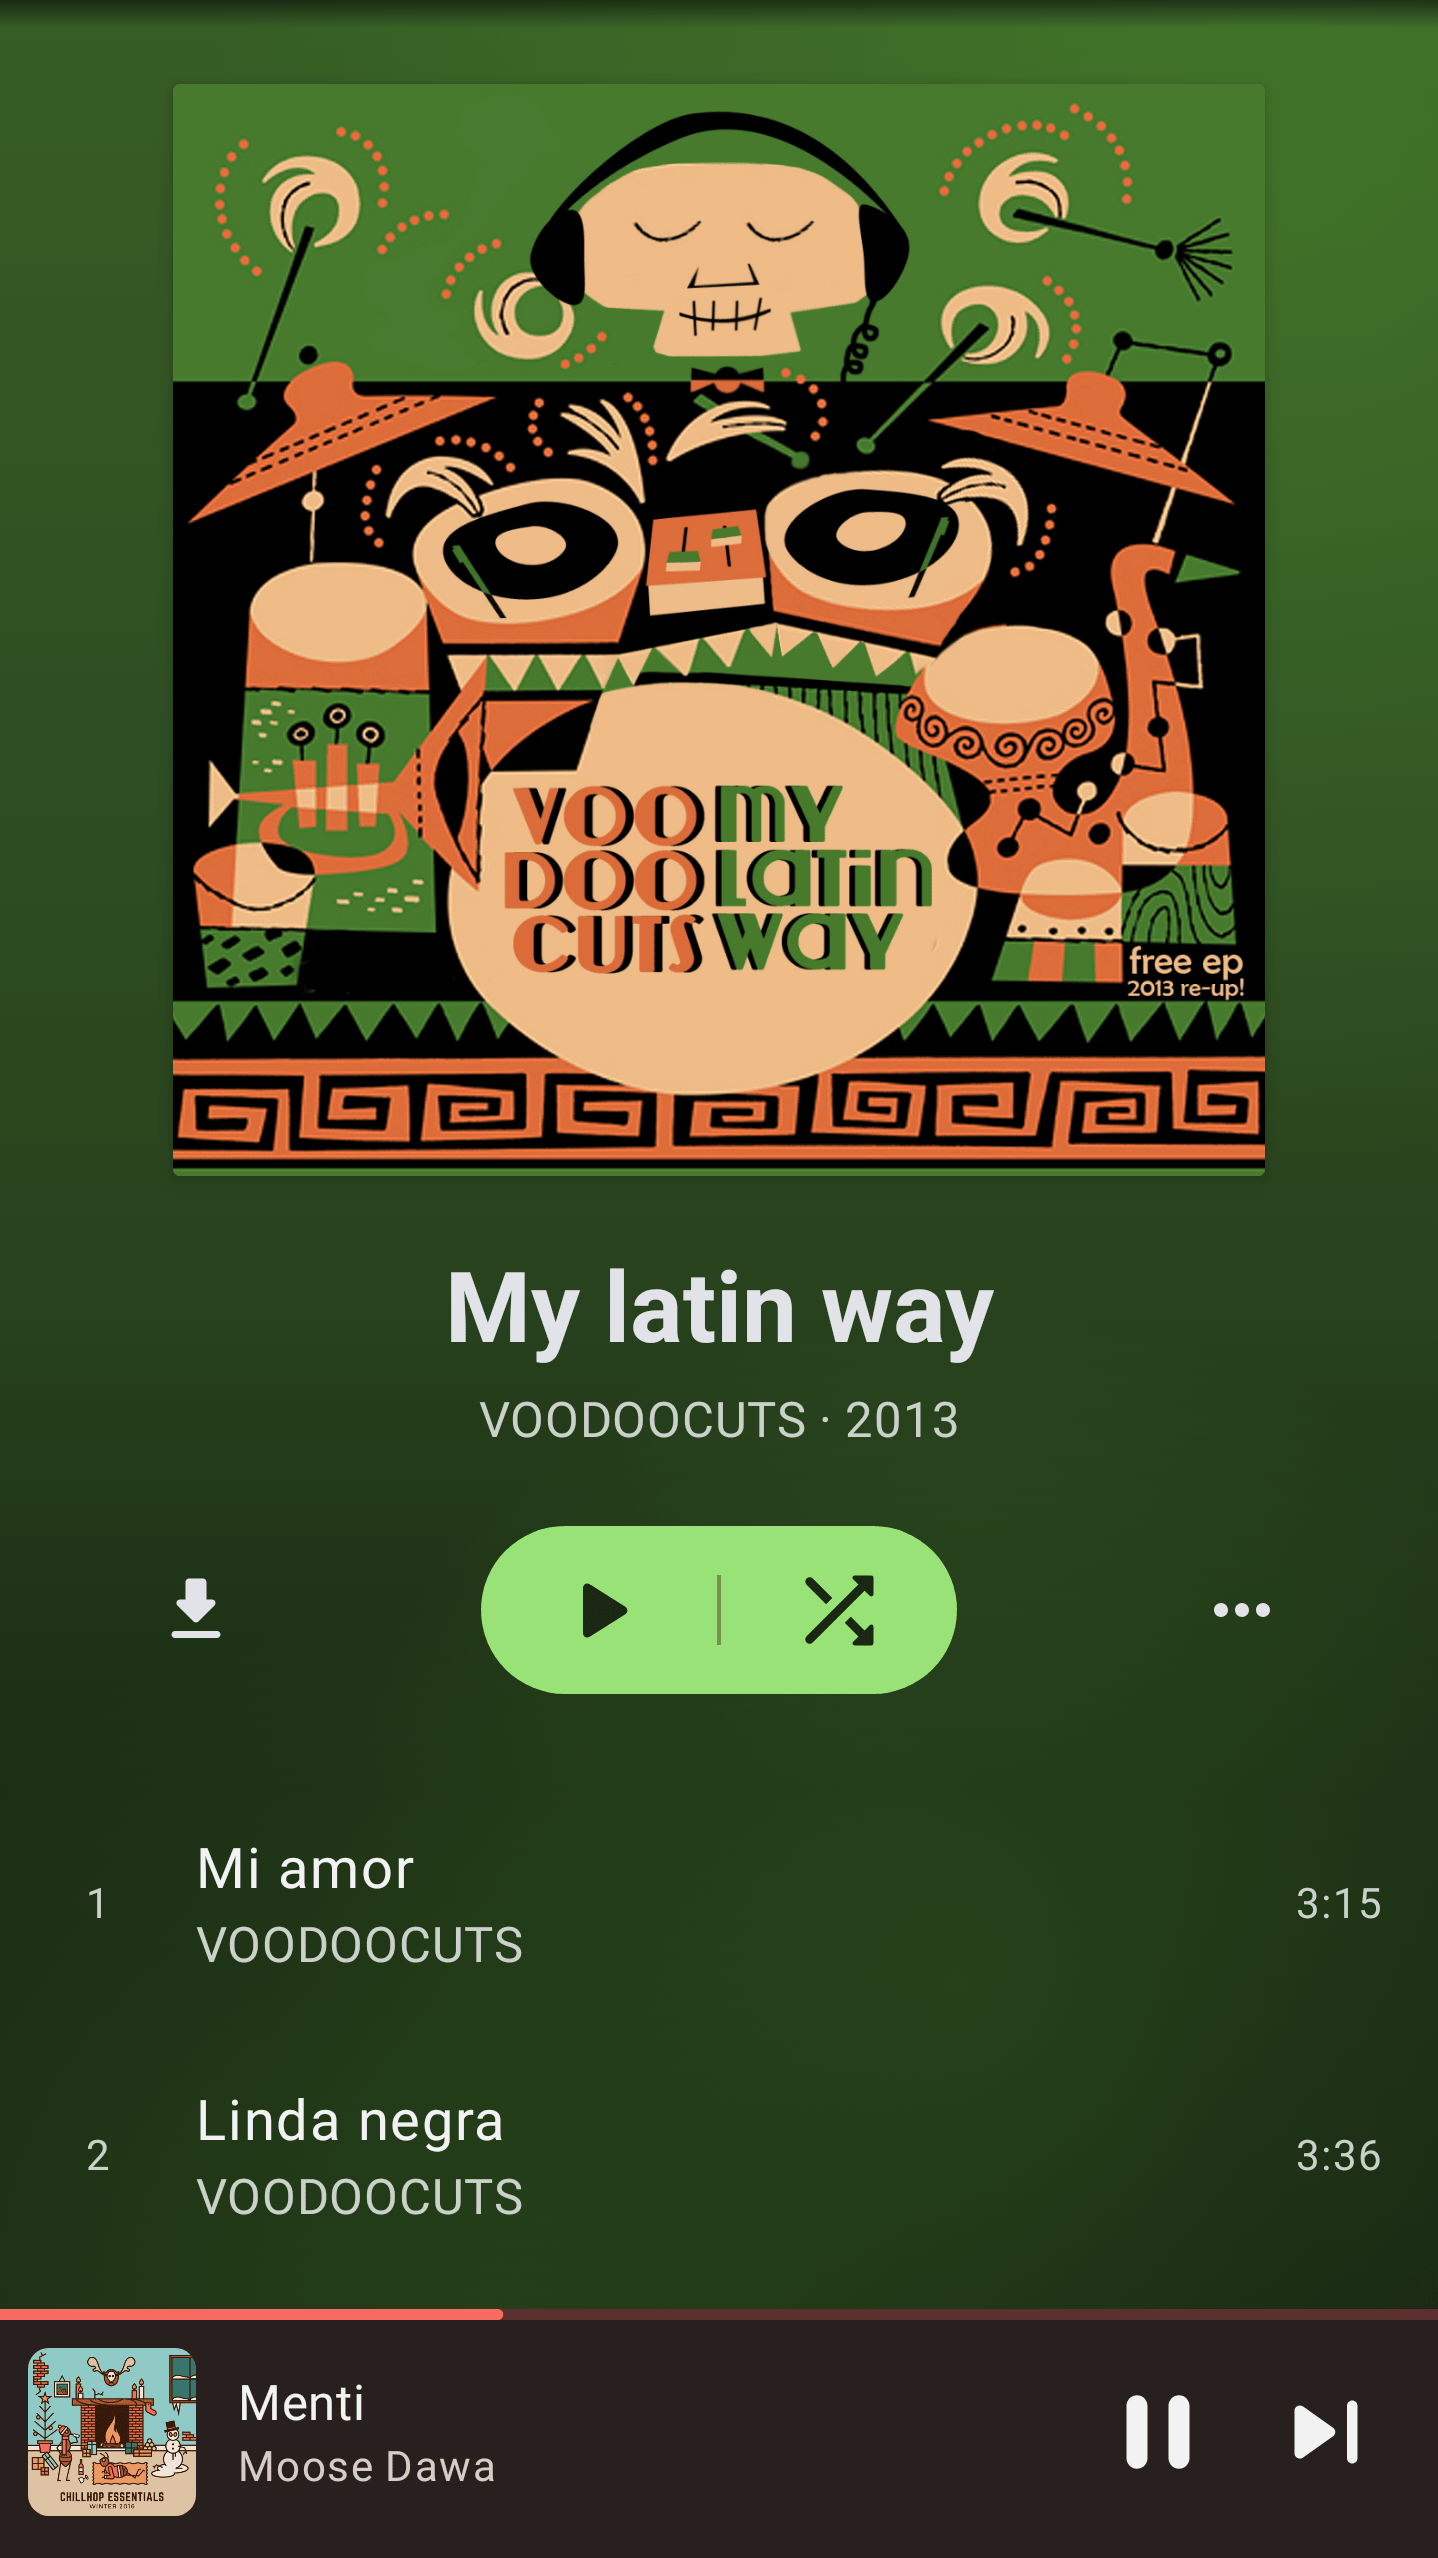
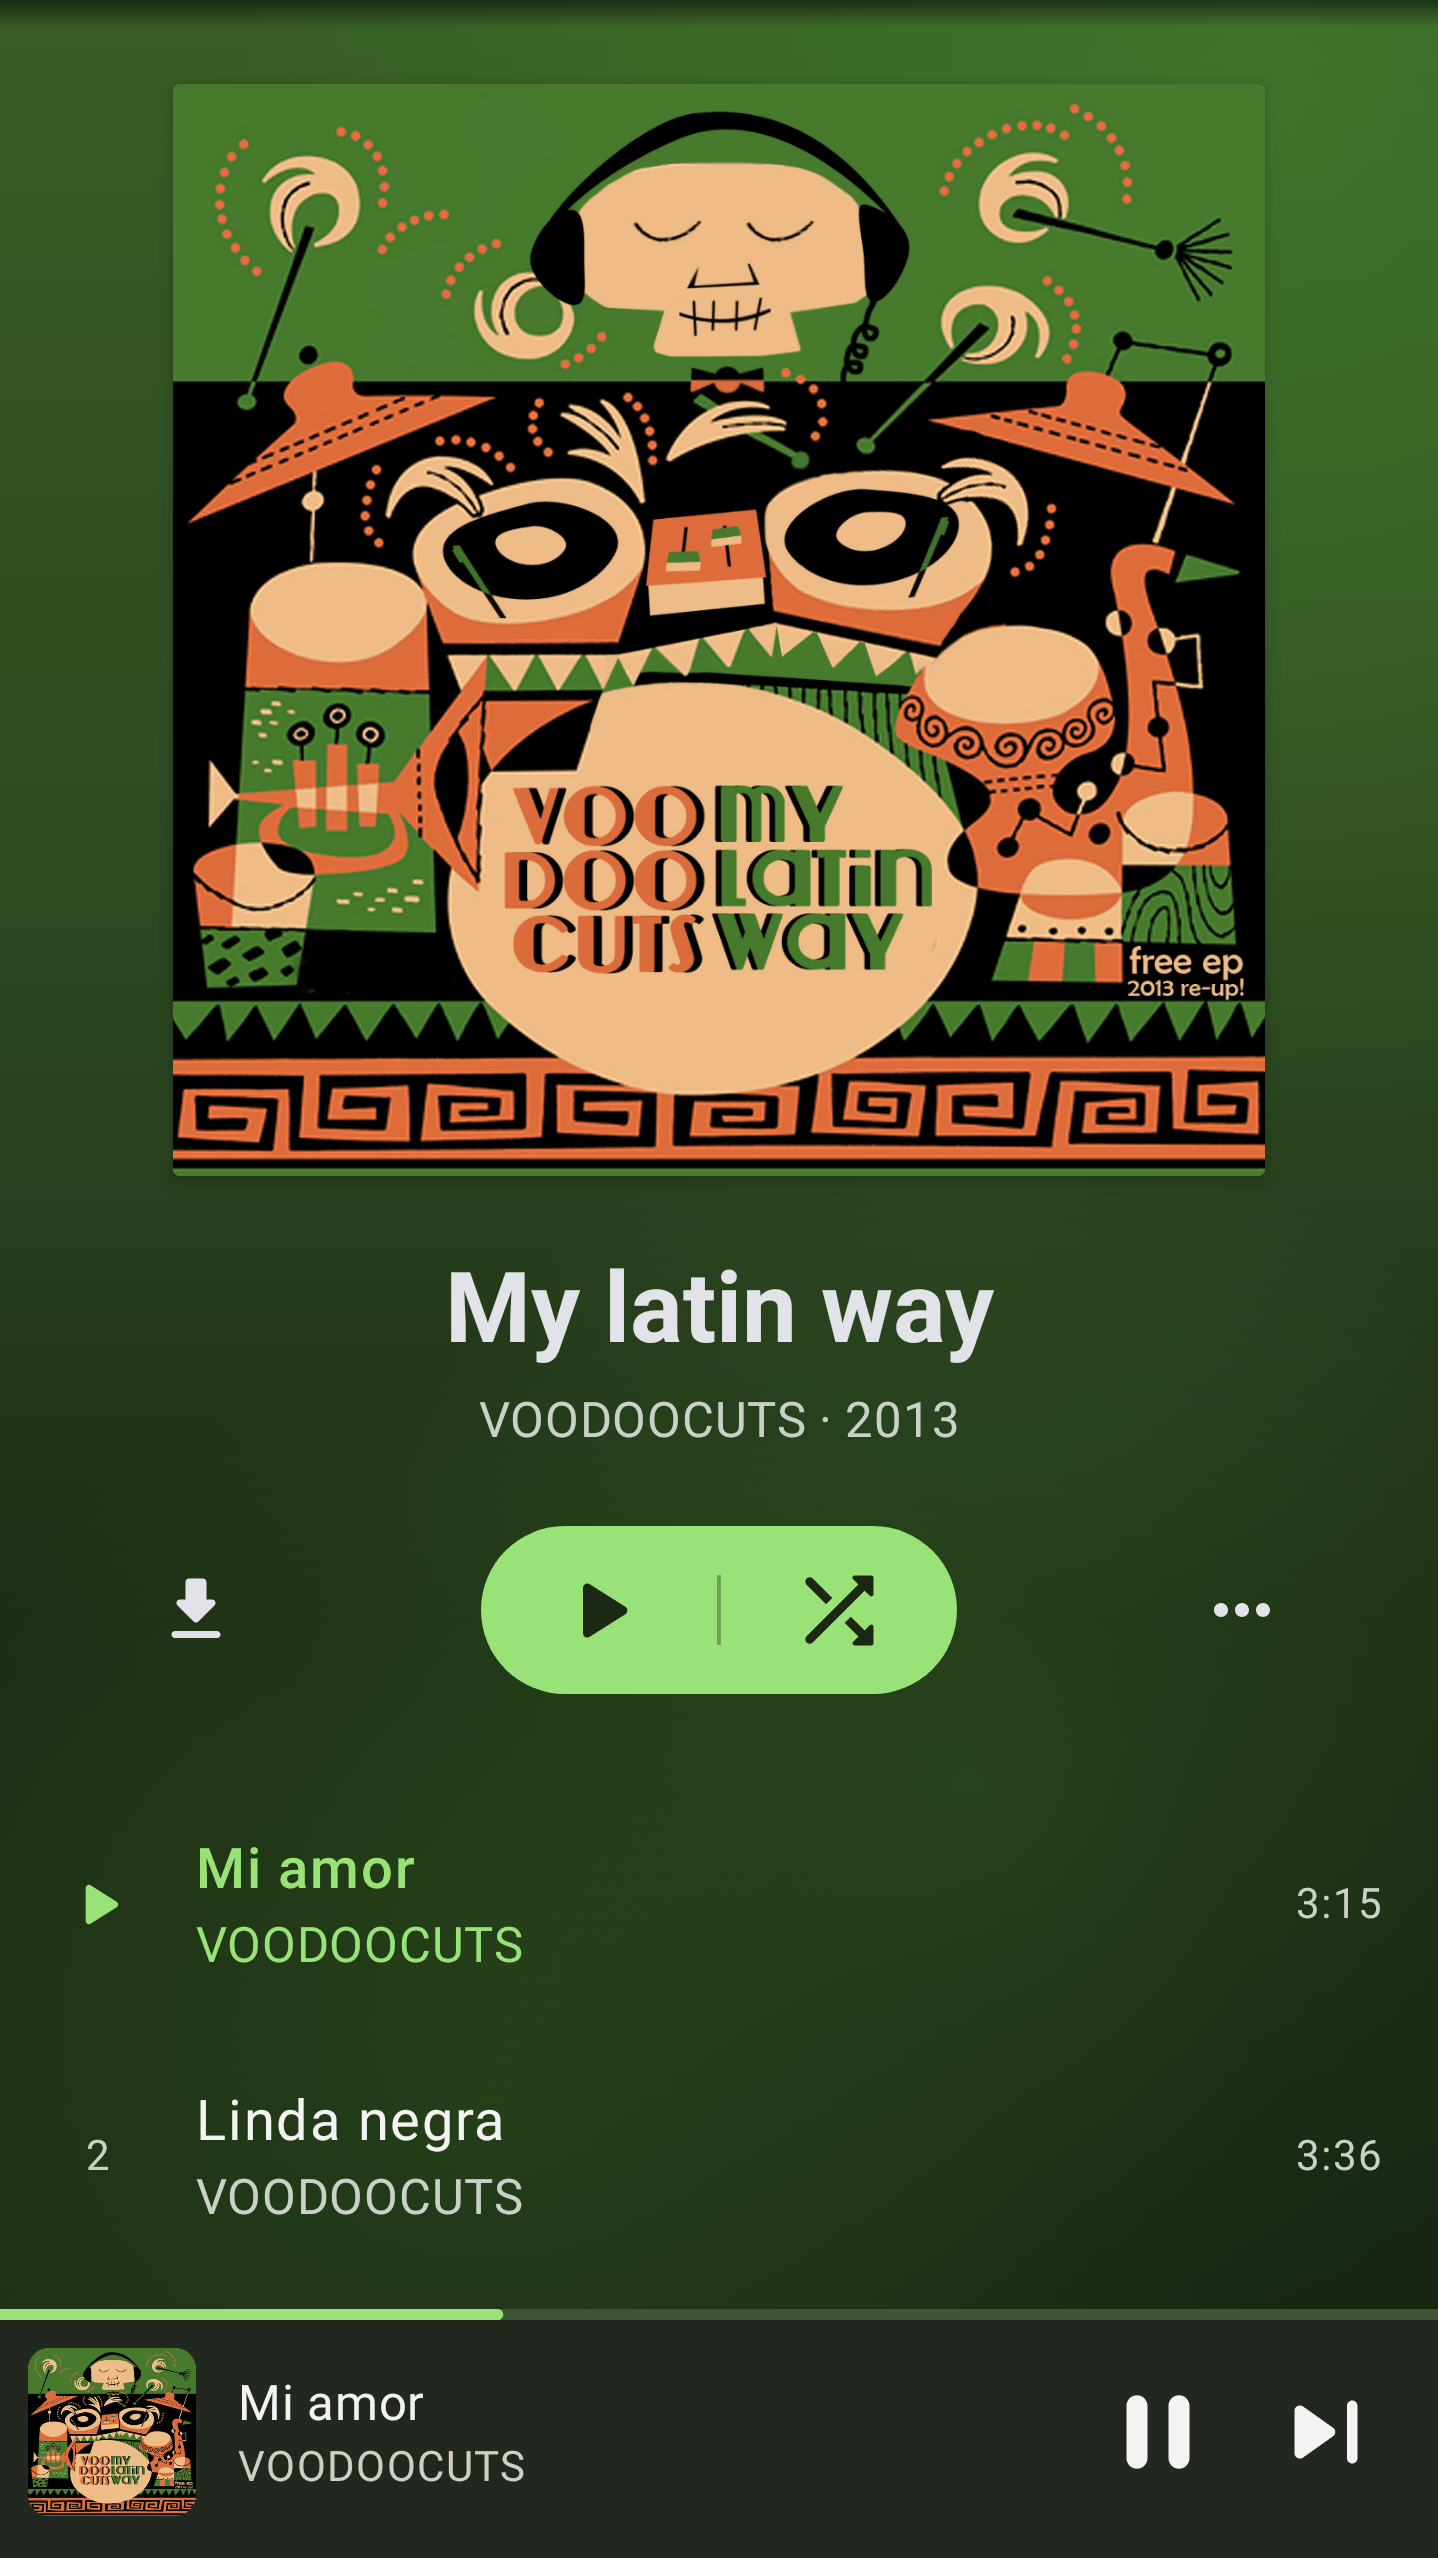
metadata: stack the miniplayer above the library tabs
Render the miniplayer in a column below the screen instead of overlaying it, so
the library tab bar and the list-options FAB are no longer covered. Use Ugress
for the artist screen, drop Various Artists from the home artist rows, and have
the album screen play its first track so the row indicator and the miniplayer
colours match the album.

Changed region(s): [[0.0, 0.8956, 1.0, 0.9883], [0.1224, 0.7103, 0.3672, 0.7721], [0.0612, 0.7412, 0.0918, 0.7721]]

diff --git a/app/src/test/kotlin/com/subtracks/ui/DemoScreenshotTest.kt b/app/src/test/kotlin/com/subtracks/ui/DemoScreenshotTest.kt
@@ -5,7 +5,7 @@ import android.graphics.Bitmap
 import android.graphics.BitmapFactory
 import android.graphics.Color
 import androidx.activity.ComponentActivity
-import androidx.compose.foundation.layout.Box
+import androidx.compose.foundation.layout.Column
 import androidx.compose.foundation.layout.fillMaxSize
 import androidx.compose.material3.Surface
 import androidx.compose.runtime.Composable
@@ -13,7 +13,6 @@ import androidx.compose.runtime.getValue
 import androidx.compose.runtime.mutableStateOf
 import androidx.compose.runtime.remember
 import androidx.compose.runtime.setValue
-import androidx.compose.ui.Alignment
 import androidx.compose.ui.Modifier
 import androidx.compose.ui.test.junit4.v2.createAndroidComposeRule
 import androidx.compose.ui.test.onRoot
@@ -141,14 +140,19 @@ class DemoScreenshotTest {
                         }
 
                         Screen.Albums -> {
-                            Box(Modifier.fillMaxSize()) {
-                                AlbumsScreen(demo.albums, demo.coverArt, demo.artwork(demo.albums.first().coverArt))
-                                demo.MiniPlayerOverlay(Modifier.align(Alignment.BottomCenter))
+                            Column(Modifier.fillMaxSize()) {
+                                AlbumsScreen(
+                                    demo.albums,
+                                    demo.coverArt,
+                                    demo.artwork(demo.albums.first().coverArt),
+                                    modifier = Modifier.weight(1f),
+                                )
+                                demo.MiniPlayerOverlay(demo.nowPlayingSong, demo.nowPlayingAlbum)
                             }
                         }
 
                         Screen.AlbumDetail -> {
-                            Box(Modifier.fillMaxSize()) {
+                            Column(Modifier.fillMaxSize()) {
                                 AlbumDetailScreen(
                                     album = demo.album,
                                     songs = demo.albumSongs,
@@ -156,10 +160,10 @@ class DemoScreenshotTest {
                                     artwork = demo.artwork(demo.album.coverArt),
                                     onBack = {},
                                     onSongClick = {},
-                                    playingSongId = demo.nowPlayingSong.id,
-                                    modifier = Modifier.fillMaxSize(),
+                                    playingSongId = demo.albumSongs.first().id,
+                                    modifier = Modifier.weight(1f),
                                 )
-                                demo.MiniPlayerOverlay(Modifier.align(Alignment.BottomCenter))
+                                demo.MiniPlayerOverlay(demo.albumSongs.first(), demo.album)
                             }
                         }
 
@@ -178,7 +182,7 @@ class DemoScreenshotTest {
                         }
 
                         Screen.Artists -> {
-                            Box(Modifier.fillMaxSize()) {
+                            Column(Modifier.fillMaxSize()) {
                                 LibraryScreen(
                                     selectedTab = LibraryTab.Artists,
                                     onTabSelected = {},
@@ -192,14 +196,14 @@ class DemoScreenshotTest {
                                     onSync = {},
                                     onOpenSettings = {},
                                     artwork = demo.artwork(demo.artists.first().coverArt),
-                                    modifier = Modifier.fillMaxSize(),
+                                    modifier = Modifier.weight(1f),
                                 )
-                                demo.MiniPlayerOverlay(Modifier.align(Alignment.BottomCenter))
+                                demo.MiniPlayerOverlay(demo.nowPlayingSong, demo.nowPlayingAlbum)
                             }
                         }
 
                         Screen.Search -> {
-                            Box(Modifier.fillMaxSize()) {
+                            Column(Modifier.fillMaxSize()) {
                                 LibraryScreen(
                                     selectedTab = LibraryTab.Albums,
                                     onTabSelected = {},
@@ -218,9 +222,9 @@ class DemoScreenshotTest {
                                     search = DEMO_SEARCH,
                                     onSearchChange = {},
                                     artwork = demo.artwork(demo.searchAlbums.first().coverArt),
-                                    modifier = Modifier.fillMaxSize(),
+                                    modifier = Modifier.weight(1f),
                                 )
-                                demo.MiniPlayerOverlay(Modifier.align(Alignment.BottomCenter))
+                                demo.MiniPlayerOverlay(demo.nowPlayingSong, demo.nowPlayingAlbum)
                             }
                         }
                     }
@@ -242,6 +246,7 @@ class DemoScreenshotTest {
         albums: List<Album>,
         coverArt: (String?, Boolean) -> CoverArtRef?,
         artwork: ArtworkColors,
+        modifier: Modifier = Modifier,
     ) {
         LibraryScreen(
             selectedTab = LibraryTab.Albums,
@@ -259,7 +264,7 @@ class DemoScreenshotTest {
             sortOptions = sortOptionsFor(LibraryTab.Albums),
             starredSupported = true,
             artwork = artwork,
-            modifier = Modifier.fillMaxSize(),
+            modifier = modifier,
         )
     }
 
@@ -276,12 +281,16 @@ class DemoScreenshotTest {
     }
 
     @Composable
-    private fun DemoData.MiniPlayerOverlay(modifier: Modifier = Modifier) {
+    private fun DemoData.MiniPlayerOverlay(
+        song: Song,
+        album: Album,
+        modifier: Modifier = Modifier,
+    ) {
         MiniPlayer(
-            state = playbackState,
-            positionMs = positionMs,
-            coverArt = coverArt(nowPlayingAlbum.coverArt, true),
-            artwork = artwork(nowPlayingAlbum.coverArt),
+            state = playbackFor(song, album),
+            positionMs = positionFor(song),
+            coverArt = coverArt(album.coverArt, true),
+            artwork = artwork(album.coverArt),
             onExpand = {},
             onPlayPause = {},
             onNext = {},
@@ -308,23 +317,29 @@ class DemoScreenshotTest {
         val engine: FakeImageLoaderEngine,
         private val bitmaps: Map<String, Bitmap>,
     ) {
-        val playbackState =
+        val playbackState = playbackFor(nowPlayingSong, nowPlayingAlbum)
+        val positionMs: Long = positionFor(nowPlayingSong)
+
+        fun playbackFor(
+            song: Song,
+            album: Album,
+        ): PlaybackState =
             PlaybackState(
                 item =
                     QueueItem(
-                        id = nowPlayingSong.id,
-                        title = nowPlayingSong.title,
-                        artist = nowPlayingSong.artist,
-                        album = nowPlayingSong.album,
-                        coverArtId = nowPlayingAlbum.coverArt,
+                        id = song.id,
+                        title = song.title,
+                        artist = song.artist,
+                        album = song.album,
+                        coverArtId = album.coverArt,
                     ),
                 isPlaying = true,
-                durationMs = (nowPlayingSong.duration ?: 0) * 1000,
+                durationMs = (song.duration ?: 0) * 1000,
                 hasNext = true,
                 hasPrevious = false,
             )
 
-        val positionMs: Long = (nowPlayingSong.duration ?: 0) * 1000 * 35 / 100
+        fun positionFor(song: Song): Long = (song.duration ?: 0) * 1000 * 35 / 100
 
         fun artwork(coverArtId: String?): ArtworkColors {
             val bitmap = coverArtId?.let(bitmaps::get) ?: return artworkColorsFromSeeds(FALLBACK_SEED, null)
@@ -381,16 +396,18 @@ class DemoScreenshotTest {
                     val homePlayingAlbum = albums.firstOrNull { it.name == "Shaking The Habitual" } ?: albums.last()
                     val homePlayingSong = dao.songsByAlbum(1, homePlayingAlbum.id).first().first()
                     val artist =
-                        artists.maxByOrNull { it.albumCount }
+                        artists.firstOrNull { it.name == "Ugress" }
+                            ?: artists.maxByOrNull { it.albumCount }
                             ?: artists.first()
                     val artistAlbums = dao.albumsForArtist(1, artist.id).first()
 
+                    fun namedArtists(artists: List<Artist>) = artists.filterNot { it.name.equals("Various Artists", ignoreCase = true) }
                     val feed =
                         HomeFeed(
                             recentlyPlayedAlbums = dao.recentlyPlayedAlbums(1, 10).first(),
-                            recentlyPlayedArtists = dao.recentlyPlayedArtists(1, 10).first(),
+                            recentlyPlayedArtists = namedArtists(dao.recentlyPlayedArtists(1, 10).first()),
                             mostPlayedAlbums = dao.mostPlayedAlbums(1, 10).first(),
-                            mostPlayedArtists = dao.mostPlayedArtists(1, 10).first(),
+                            mostPlayedArtists = namedArtists(dao.mostPlayedArtists(1, 10).first()),
                             genres = dao.genresByMostPlayed(1).first(),
                             decades = dao.decades(1).first(),
                             recentlyStarredSongs = dao.recentlyStarredSongs(1, 10).first(),
